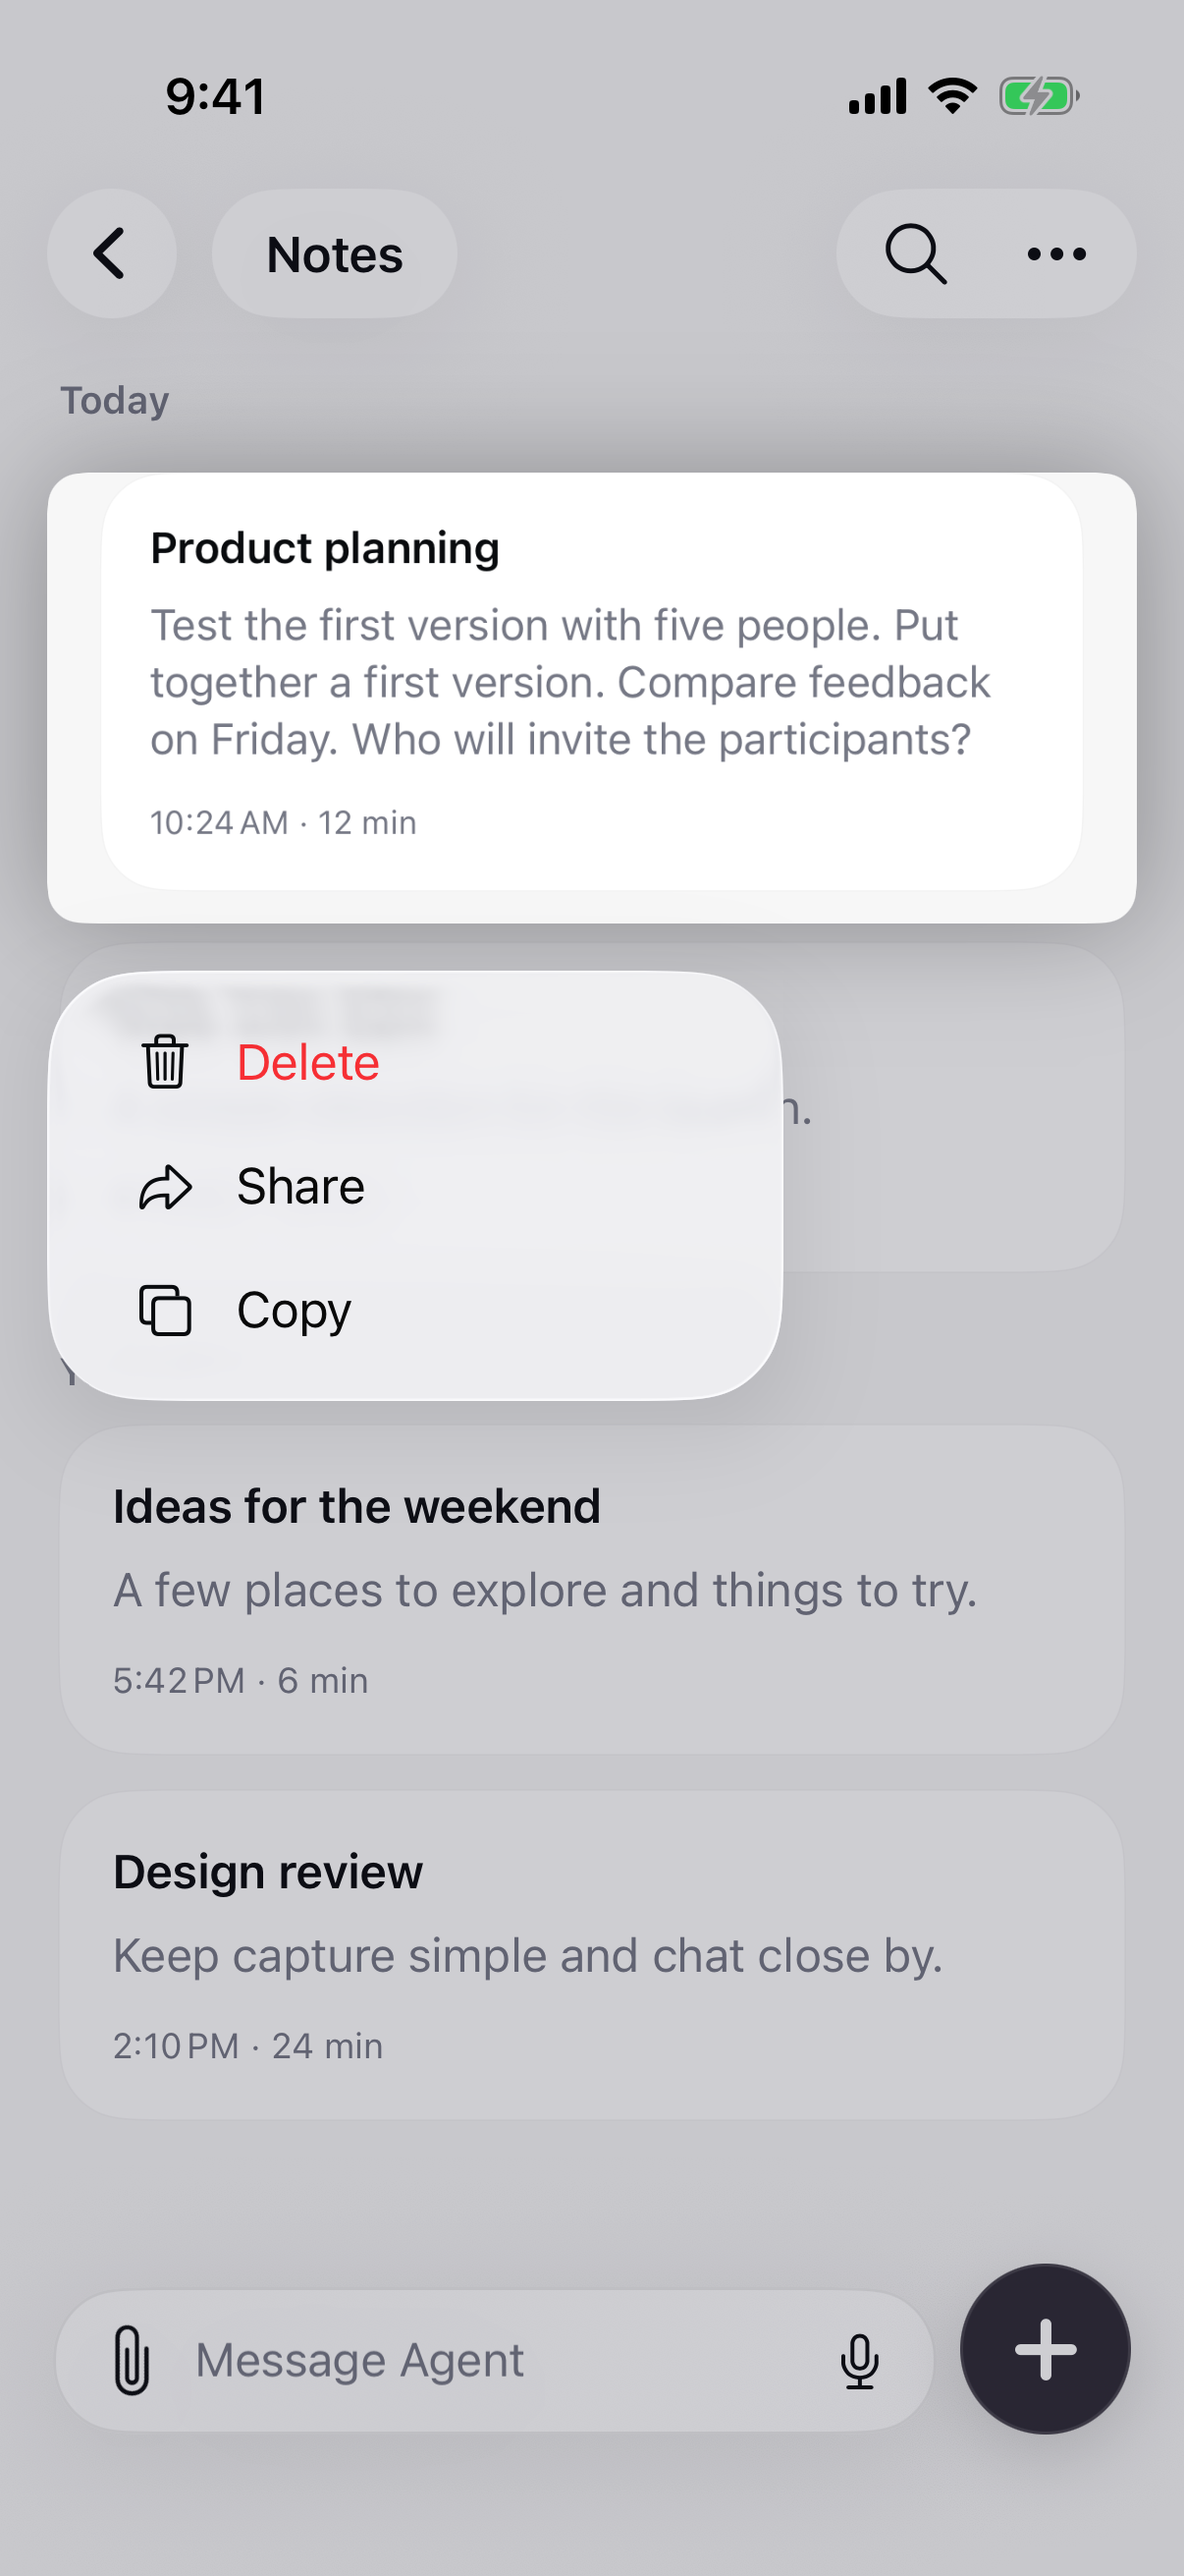
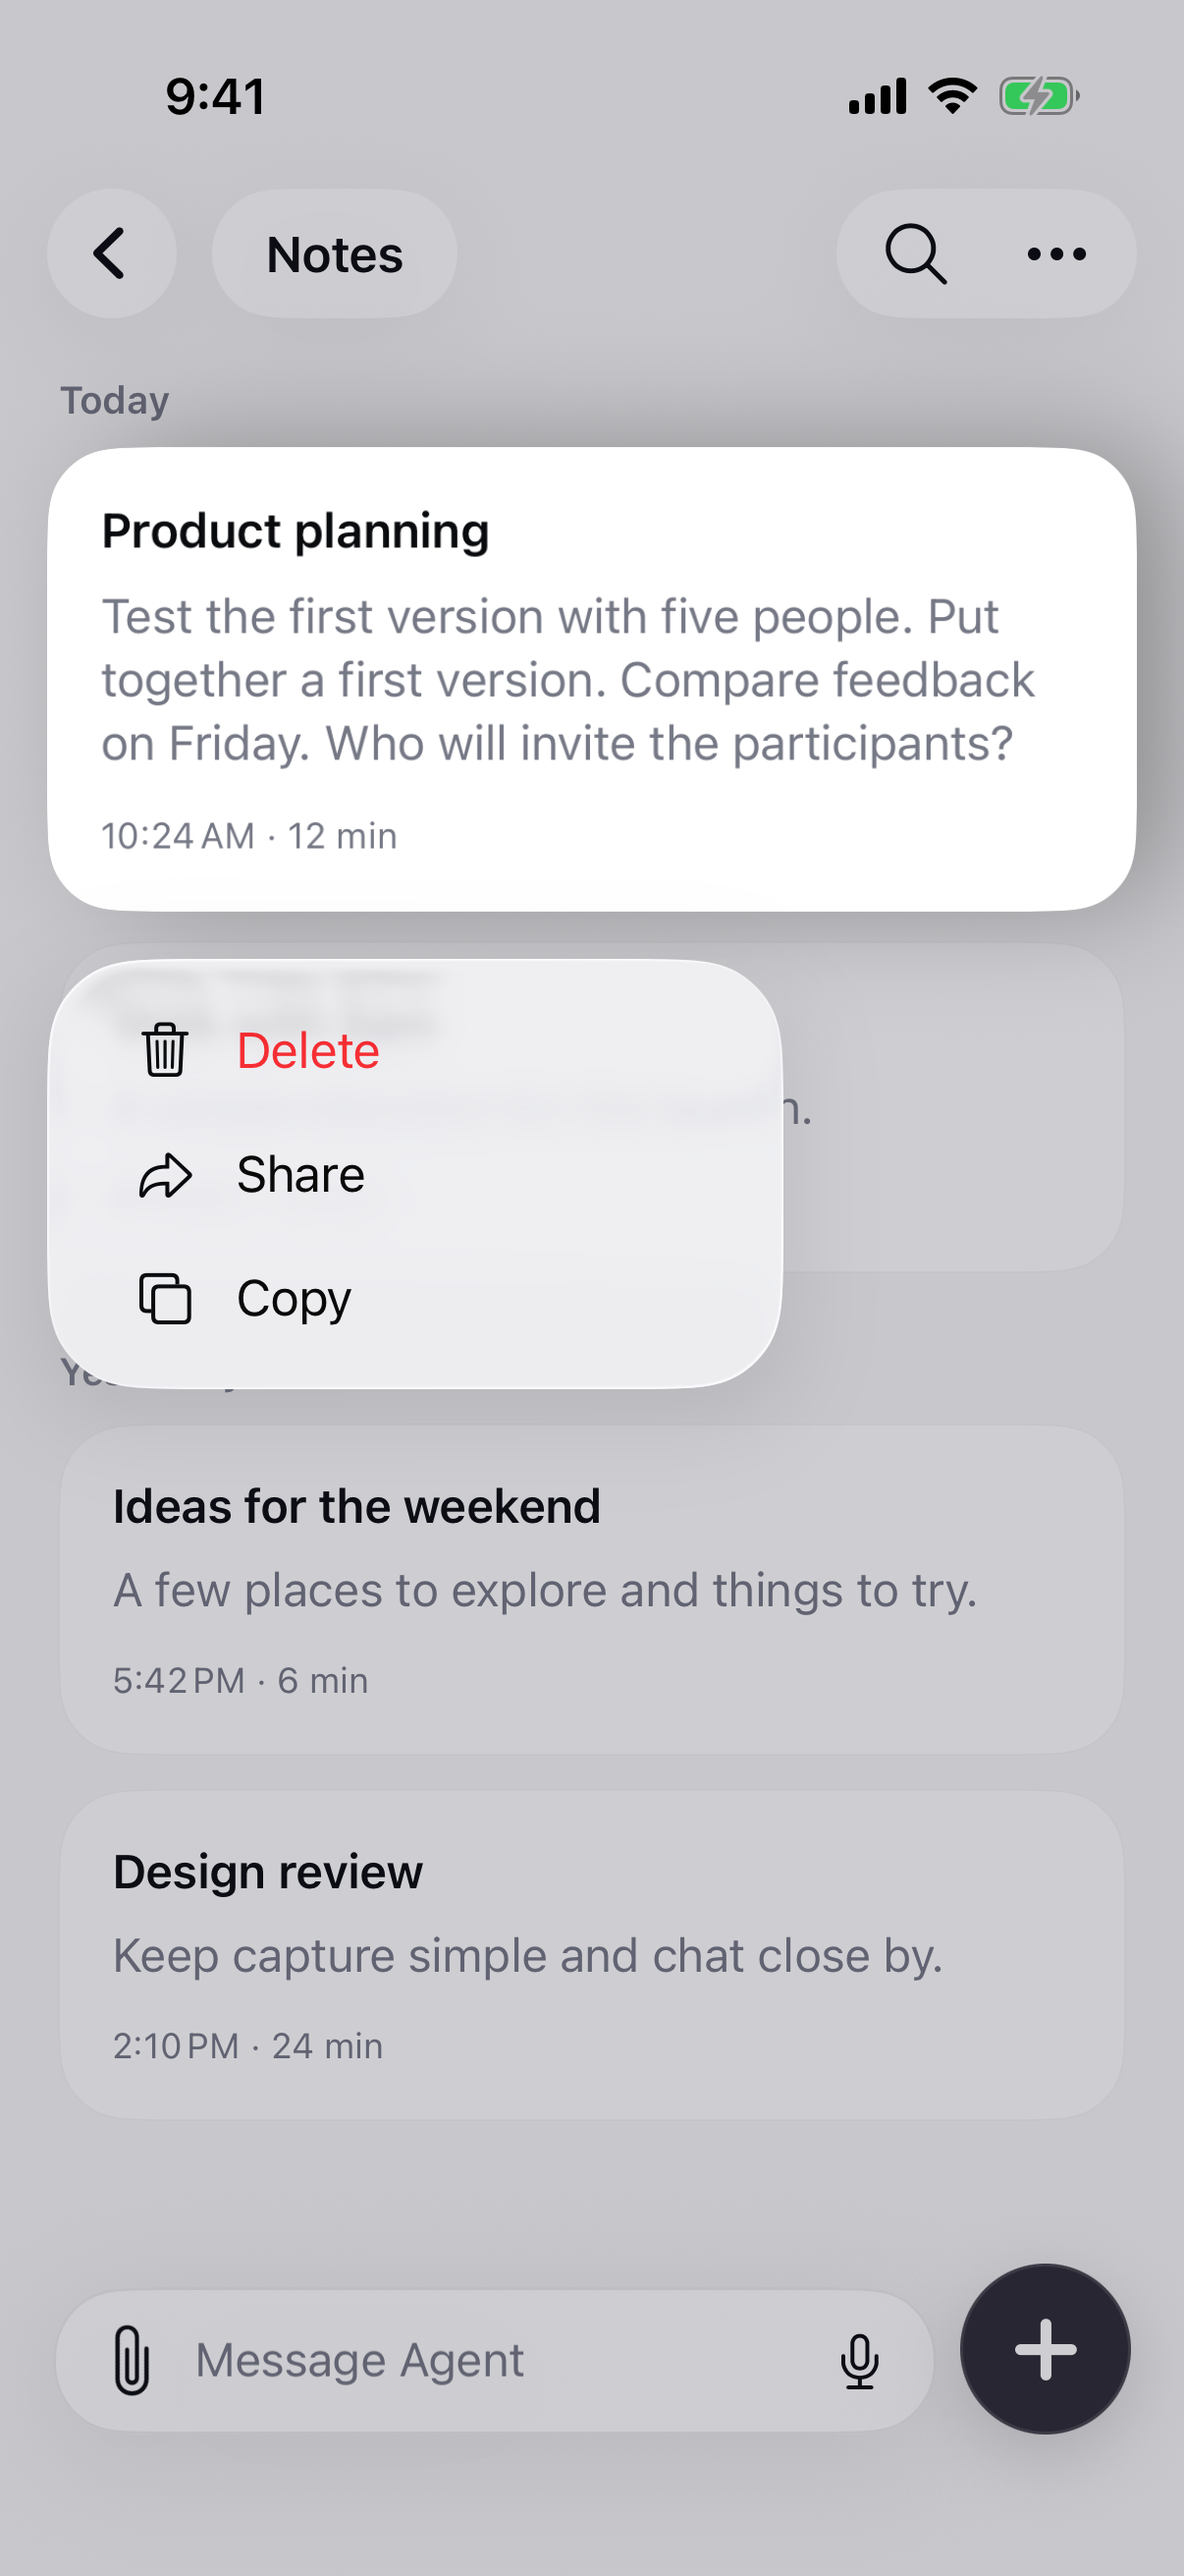
Fix rounded note context-menu preview bounds

Changed region(s): [[0.0307, 0.1545, 0.9818, 0.4634], [0.0614, 0.4943, 0.6443, 0.5561]]

diff --git a/App/CompanionRootView.swift b/App/CompanionRootView.swift
@@ -560,7 +560,7 @@ struct CompanionRootView: View {
                             .overlay { RoundedRectangle(cornerRadius: 24).stroke(ExperienceStyle.line.opacity(0.55), lineWidth: 0.5) }
                             .contentShape(RoundedRectangle(cornerRadius: 24))
                     }.buttonStyle(ExperiencePressStyle(pressedScale: 0.985)).accessibilityIdentifier("savedSession")
-                    .padding(.bottom, 12)
+                    .contentShape(.contextMenuPreview, RoundedRectangle(cornerRadius: 24))
                     .swipeActions(edge: .trailing, allowsFullSwipe: false) {
                         Button { ExperienceClipboard.copy(noteExport(session)) } label: { noteActionLabel("Copy", icon: "square.on.square").labelStyle(.iconOnly) }
                             .buttonStyle(.automatic).tint(ExperienceStyle.secondary)
@@ -578,6 +578,7 @@ struct CompanionRootView: View {
                         ShareLink(item: noteExport(session)) { noteActionLabel("Share", icon: "arrowshape.turn.up.right") }
                         Button { ExperienceClipboard.copy(noteExport(session)) } label: { noteActionLabel("Copy", icon: "square.on.square") }
                     }
+                    .padding(.bottom, 12)
                 }
             }
             .listRowInsets(EdgeInsets(top: 0, leading: 20, bottom: 0, trailing: 20))

diff --git a/docs/native-experience-ui.md b/docs/native-experience-ui.md
@@ -179,3 +179,9 @@ Founder approved deployment after reviewing the UI. PR104 merged as `4dd5b702894
 Before rollout, backed up all 20 top-level SQLite databases with integrity checks and a SHA-256 manifest to `/var/data/voice-companion/ui-rollout-1790574284`. After rollout, verified the exact server revision, ready health, database integrity, and identical rows across all 106 backed-up tables. Usage remains Ask 2,954,868, Jev 833,000 and STT 1,240,000 microUSD reserved (total 5,027,868); zero active requests. Eight companion persistence/deletion contract tests passed on the deployed code using isolated temporary databases. No production notes were deleted for verification, and no paid provider or microphone calls were made.
 
 Operator receipts are in ignored `work/ui-rollout/` in the rollout worktree: backup/verification JSON, deploy metadata, build/install/launch logs and deployed-contract result. Rollback server revision is previously verified `26023ea462b3e9bacadba8ce63a62a94d13fb6d4`; rollback would restore the old deletion behavior, so pair it with the prior client. This is an internal rollout, not public release or physical haptic/performance acceptance. Previously erased replies cannot be recovered. Prior pending-rollout notes above are superseded by this receipt.
+
+### Note long-press preview correction — September 28
+
+The note context menu included the card's outer bottom padding and had no explicit preview shape, so iOS lifted an oversized rectangular row behind the rounded card. The preview now uses the same 24-point rounded shape as the card; outer spacing is applied after the menu. Native swipe actions and menu actions are unchanged.
+
+The gallery/attachment simulator flow passed at `/tmp/VoiceCompanion-ExperienceResults/20260928-015415/` (46.624 seconds): long-press actions, swipe reveal/close, Copy, delete/cancel, tap navigation and attachments. Inspected the actual lifted preview and refreshed `qa/native-experience/note-context-actions.png`: no outer rectangular highlight. Signed Phone build passed (`/tmp/note-preview-device.log`). No provider or microphone calls; physical behavior acceptance is not claimed.
